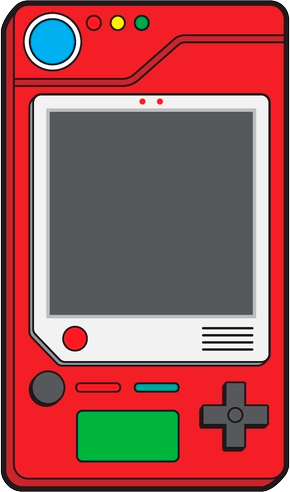
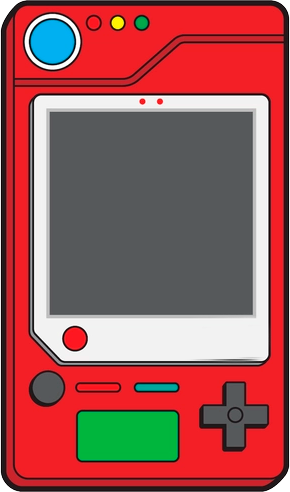
fix: removed bars at pokedex. work in progress

Changed region(s): [[0.6828, 0.6402, 0.9, 0.7622]]

diff --git a/src/components/Forecast.tsx b/src/components/Forecast.tsx
@@ -1,6 +1,5 @@
 import { ForecastTypes } from "../hooks/useForecast"
 import { toUpperCaseFirstLetter } from "../utils/formatter";
-import ashPikachu from '../assets/ash-pikachu.webp';
 
 interface ForecastProps {
   data: ForecastTypes;
@@ -13,7 +12,7 @@ export function Forecast({data, city}: ForecastProps) {
   const { description, icon } = weather[0];
   
   return(
-    <div className="text-3xl flex gap-5 mt-2" style={{backgroundImage: ashPikachu}}>
+    <div className="text-3xl flex gap-5 mt-2">
       <img src={`http://openweathermap.org/img/wn/${icon}@2x.png`} alt="Imagem do tempo" />
       <div>
         <p className="font-bold text-7xl">{Math.round(temp)}ºC</p>

diff --git a/src/App.tsx b/src/App.tsx
@@ -23,7 +23,7 @@ export function App() {
 
   return (
     <div className="w-screen h-screen flex flex-col items-center ">
-      <img className={`absolute left-0 top-0 h-full object-cover opacity-80 z-[-1] ${forecast && 'blur-sm'}`} src={pokemonsBg} alt="Pokemons" />
+      <img className={`absolute left-0 top-0 h-full w-full object-cover md:object-fill opacity-80 z-[-1] ${forecast && 'blur-sm'}`} src={pokemonsBg} alt="Pokemons" />
       
       <header className='w-full flex justify-around mt-3'>
         <a href="https://openweathermap.org/api" target="_blank" className='hidden  md:block'>
